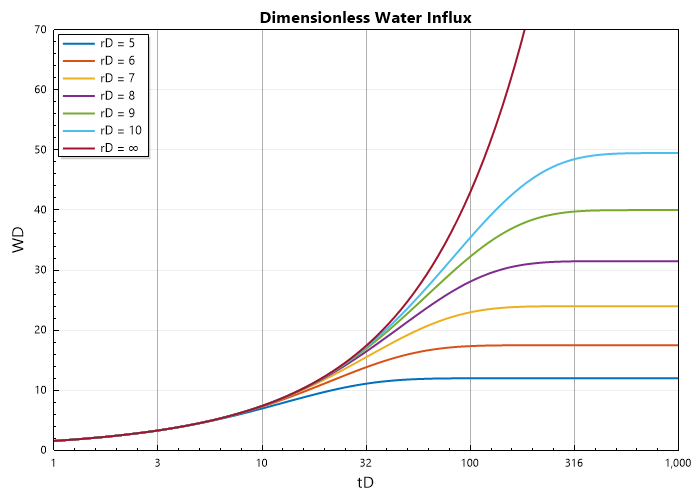
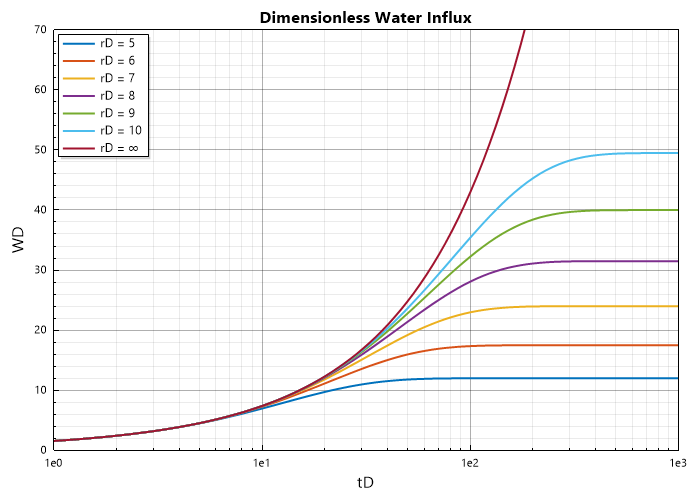
grid c#

diff --git a/docs/source/untitled2.m b/docs/source/untitled2.m
@@ -1,48 +1,58 @@
-% define zfunction
-function crtrhy =  CrTrHY(Pr, Tr)
+% define the solution in time space
+function wt = EdgeClosedBoundaryRadial_Wd(tD, rD)
 
-    % define density equation
-    function yres = yfunc(y, A, B, C, D, Pr)
-         y2 = y * y; y3 = y2 * y; y4 = y3 * y; Den = (1 - y)^3;
-         yres = -A * Pr + (y + y2 + y3 - y4) / Den - B * y2 + C * y^D;
-    end
+   % define the solution in laplace space
+   function ws = lapW(s)
+      sqrts = sqrt(s); sqrts3 = s * sqrts; rDsqrts = rD * sqrts;
+      Num = besseli(1, rDsqrts) * besselk(1, sqrts) - besselk(1, rDsqrts) * besseli(1, sqrts);
+      Den = besseli(1, rDsqrts) * besselk(0, sqrts) + besselk(1, rDsqrts) * besseli(0, sqrts);
+      if (isinf(Num) || isinf(Den))
+         ws = 1 / sqrts3;
+      else
+         ws = Num / (sqrts3 * Den);
+      end
+   end
 
-    % avoid computing intermediate variables.
-    t = 1 / Tr; t2 = t * t; t3 = t2 * t;
-    tm1 = 1 - t; tm1e2 = tm1 * tm1;
-    A = 0.06125 * t * exp(-1.2 * tm1e2);
-    B = 14.76 * t - 9.76 * t2 + 4.58 * t3;
-    C = 90.7 * t - 242.2 * t2 + 42.4 * t3;
-    D = 2.18 + 2.82 * t; r = A * Pr;
-    if(Pr > 15)
-        r = r/2;
-    end
-
-    % solve the density equation
-    y = fsolve(@(y) yfunc(y, A, B, C, D, Pr), r);
-
-    % compute crtr
-    y2 = y * y; y3 = y2 * y; y4 = y3 * y; ym1p4 = (1 - y)^4; yDm1 = y^(D - 1);
-    Den = (1 + 4 * y + 4 * y2 - 4 * y3 + y4) / ym1p4 - 2 * B * y + C * D * yDm1;
-   crtrhy = A*Tr/(y*Den);
-
+   if(tD == 0 || rD == 1)
+      wt =  0;
+   else
+      wt = niLaplace(@(s)lapW(s), tD);
+   end
 end
 
-% set up ressure and temperature mesh
-Pr = linspace(0.2, 25, 501);
-Tr = [1.05,  1.1,  1.2,  1.3,  1.4];
+% define the time and radial mesh
+Rd = [2, 2.5, 3, 3.5, 4, 50];
+Td = logspace(-1, 2);
 
-% compute z factors and plot them
-figure(Color = 'w'); Tlabels = {};
-for tr = Tr
-    loglog(Pr, arrayfun(@(pr) CrTrHY(pr, tr), Pr)); hold on;
-    Tlabels = [Tlabels, "Tr = " + tr];
+% compute the water influx and plot
+figure(Color='w');
+lgd = {};
+for rD = Rd
+   Wd = arrayfun(@(tD)EdgeClosedBoundaryRadial_Wd(tD, rD), Td);
+   semilogx(Td, Wd, linewidth = 2); hold on;
+   lgd = [lgd, "rD = " + num2str(rD)];
 end
+lgd(end) = 'rD = ∞'; grid on;
+xlabel("tD"); ylabel("WD");
+legend(lgd, location = "northwest")
+axis([0.1, 100, 1, 8]);
+title("Dimensionless Water Influx");
+saveas(gcf, "Dimensionless-Water-Influx-Matlab-4dn.png");
 
-% add legend, axis label and title
-legend(Tlabels, location = "southwest");
-xlabel("Pr"); ylabel("CrTr"); 
-axis([0.1, 100, 0.01, 10]);
-grid on; grid minor;
-title("Reduced Compressibility Hall Yarborough"); box on;
-saveas(gcf, 'Reduced-Compressibility-Hall-Yarborough-Matlab', 'png');
+% define the time and radial mesh
+Rd = [5,6,7,8,9,10, 50];
+Td = logspace(0, 3);
+
+% compute the water influx and plot
+figure(Color='w'); lgd = {};
+for rD = Rd
+   Wd = arrayfun(@(tD)EdgeClosedBoundaryRadial_Wd(tD, rD), Td);
+   semilogx(Td, Wd, linewidth = 2); hold on;
+   lgd = [lgd, "rD = " + num2str(rD)];
+end
+lgd(end) = 'rD = ∞'; grid on;
+xlabel("tD"); ylabel("WD");
+legend(lgd, location = "northwest")
+axis([1,1000,0, 70]);
+title("Dimensionless Water Influx");
+saveas(gcf, "Dimensionless-Water-Influx-Matlab-5up.png");
